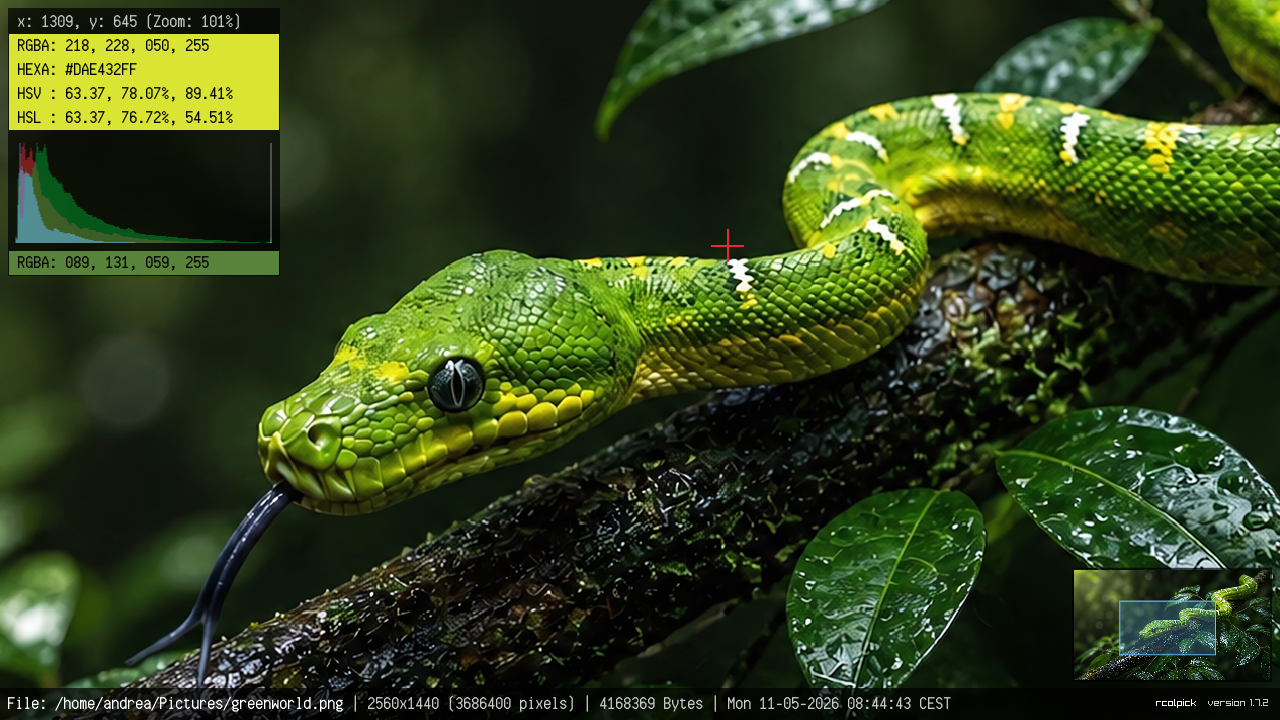
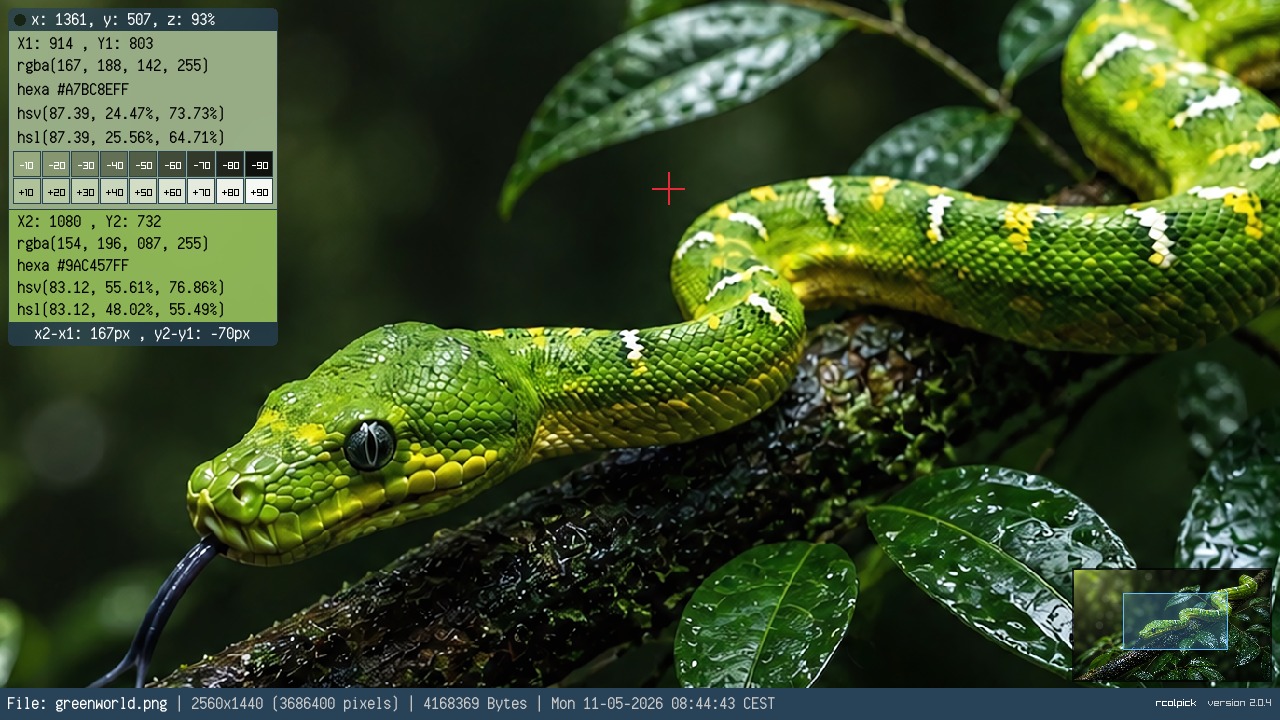
rcolpick info panel review

diff --git a/rcolpick/rcolpick.c b/rcolpick/rcolpick.c
@@ -9,7 +9,7 @@
 
 #define TOOL_NAME               "rColor Picker"
 #define TOOL_SHORT_NAME         "rcolpick"
-#define TOOL_VERSION            "2.0.4"
+#define TOOL_VERSION            "2.1.0"
 
 #include <raylib.h>
 #include <rlgl.h>
@@ -22,7 +22,7 @@
 const int screenWidth = 1280;
 const int screenHeight = 720;
 
-const int fntSize = 18;
+const int fntSize = 14;
 char buffer[64];
 const char *clipboardText = NULL;
 
@@ -63,11 +63,11 @@ const int txtOffset = 32;
 
 Vector2 barPos = {0,screenHeight - txtOffset };
 Rectangle scissorArea = { 0,0,screenWidth,screenHeight - txtOffset };
-Rectangle rectPixel = { 8,8,270,338 };
+Rectangle rectPixel = { 8,8,230,338 };
 Rectangle rectHist = { 8,570,270,110 };
 
 //mimimap variables
-const float maxMapSize = 196.0f; 
+const float maxMapSize = 230.0f; 
 float mapWidth;
 float mapHeight;
 float aspectRatio;
@@ -469,7 +469,7 @@ while (!WindowShouldClose())    // Detect window close button or ESC key
 
                 // se mouse sopra floating panel, sposta floating panel
 	            if (CheckCollisionPointRec(mousePos,rectPixel)) isLeft = !isLeft;
-	            rectPixel.x =(isLeft)?8:1000;
+	            rectPixel.x =(isLeft)?8:1042;
                 // anteprima colore sotto il mouse cursor
                 if (x >= 0 && x < background.width && y >= 0 && y < background.height) previewCol = pixels[y * background.width + x];
 
@@ -590,12 +590,12 @@ while (!WindowShouldClose())    // Detect window close button or ESC key
 
             
             // background of "floating" poanel
-            DrawRectangleRounded(rectPixel,0.048f,36, Fade(bgColor,0.72f));
-
+            DrawRectangleRounded(rectPixel,0.080f,36, Fade(bgColor,0.72f));
+            DrawRectangleRoundedLines(rectPixel,0.080f,36, BLACK);
             // MAIN cursor x,y
             DrawCircle(rectPixel.x + 12,rectPixel.y+12 ,6, previewCol);
             snprintf(buffer, sizeof(buffer), "x: %i, y: %i, z: %02.f%%", x, y,cam.zoom*100);
-            DrawTextEx(txtFont,buffer,(Vector2){rectPixel.x + 24, rectPixel.y + 2},fntSize,0,WHITE);
+            DrawTextEx(txtFont,buffer,(Vector2){rectPixel.x + 24, rectPixel.y + 4},fntSize,0,WHITE);
 
             
             // colore FG text in baase al colore selezionato
@@ -604,31 +604,31 @@ while (!WindowShouldClose())    // Detect window close button or ESC key
 
             // info per left pixel (left mouse click)
             //------------------------------------------------------------------
-            DrawRectangleRec((Rectangle){rectPixel.x + 1, rectPixel.y + 23,268, 178}, Fade(leftCol,0.88f));
-            DrawTextEx(txtFont,TextFormat("X1: %i , Y1: %i", xl, yl),(Vector2){rectPixel.x + 10, rectPixel.y + 26},fntSize,0,LeftTextCol);
+            DrawRectangleRec((Rectangle){rectPixel.x + 1, rectPixel.y + 23,rectPixel.width-2, 118}, Fade(leftCol,0.88f));
+            DrawTextEx(txtFont,TextFormat("X1: %i , Y1: %i", xl, yl),(Vector2){rectPixel.x + 10, rectPixel.y + 28},fntSize,0,LeftTextCol);
             // RGBA            
-            DrawTextEx(txtFont,TextFormat("rgba(%03i, %03i, %03i, %03i)", leftCol.r,leftCol.g,leftCol.b,leftCol.a),(Vector2){ rectPixel.x + 10, rectPixel.y + 48},fntSize,0,LeftTextCol);
+            DrawTextEx(txtFont,TextFormat("rgba(%i, %i, %i, %i)", leftCol.r,leftCol.g,leftCol.b,leftCol.a),(Vector2){ rectPixel.x + 10, rectPixel.y + 50},fntSize,0,LeftTextCol);
             // HEXA 
-            DrawTextEx(txtFont,TextFormat("hexa #%02X%02X%02X%02X", leftCol.r,leftCol.g,leftCol.b,leftCol.a),(Vector2){rectPixel.x + 10, rectPixel.y + 72},fntSize,0,LeftTextCol);
+            DrawTextEx(txtFont,TextFormat("hexa #%02X%02X%02X%02X", leftCol.r,leftCol.g,leftCol.b,leftCol.a),(Vector2){rectPixel.x + 10, rectPixel.y + 74},fntSize,0,LeftTextCol);
            // HSVLighter variations created by adding white to your base color.
-           DrawTextEx(txtFont,TextFormat("hsv(%3.02f, %3.02f%%, %3.02f%%)", hsv.x,hsv.y*100.0f,hsv.z*100.0f),(Vector2){rectPixel.x + 10, rectPixel.y + 96},fntSize,0,LeftTextCol);
+           DrawTextEx(txtFont,TextFormat("hsv(%3.02f, %3.02f%%, %3.02f%%)", hsv.x,hsv.y*100.0f,hsv.z*100.0f),(Vector2){rectPixel.x + 10, rectPixel.y + 98},fntSize,0,LeftTextCol);
            // HSL
-           DrawTextEx(txtFont,TextFormat("hsl(%3.02f, %3.02f%%, %3.02f%%)", res.h*360, res.s*100, res.l*100),(Vector2){rectPixel.x + 10, rectPixel.y + 120},fntSize,0,LeftTextCol);   
+           DrawTextEx(txtFont,TextFormat("hsl(%3.02f, %3.02f%%, %3.02f%%)", res.h*360, res.s*100, res.l*100),(Vector2){rectPixel.x + 10, rectPixel.y + 122},fntSize,0,LeftTextCol);   
             
 
             // info per right pixel (right mouse click)
             //---------------------------------------------------------------------------------------
-            DrawRectangleRec((Rectangle){rectPixel.x +1,rectPixel.y + 202, 268, 112}, Fade(rightCol,0.88f));
+            DrawRectangleRec((Rectangle){rectPixel.x +1,rectPixel.y + 202, rectPixel.width-2, 112}, Fade(rightCol,0.88f));
             // cursor x,y right
-            DrawTextEx(txtFont,TextFormat("X2: %i , Y2: %i", xr, yr), (Vector2){rectPixel.x + 10, rectPixel.y + 204},fntSize,0,RightTextCol);
+            DrawTextEx(txtFont,TextFormat("X2: %i , Y2: %i", xr, yr), (Vector2){rectPixel.x + 10, rectPixel.y + 206},fntSize,0,RightTextCol);
             // RGBA 
-            DrawTextEx(txtFont,TextFormat("rgba(%03i, %03i, %03i, %03i)",rightCol.r, rightCol.g,rightCol.b,rightCol.a),(Vector2){rectPixel.x+10,rectPixel.y + 226},fntSize,0,RightTextCol);
+            DrawTextEx(txtFont,TextFormat("rgba(%i, %i, %i, %i)",rightCol.r, rightCol.g,rightCol.b,rightCol.a),(Vector2){rectPixel.x+10,rectPixel.y + 228},fntSize,0,RightTextCol);
             // HEXA
-           DrawTextEx(txtFont,TextFormat("hexa #%02X%02X%02X%02X", rightCol.r,rightCol.g,rightCol.b,rightCol.a),(Vector2){rectPixel.x + 10, rectPixel.y + 248},fntSize,0,RightTextCol);
+           DrawTextEx(txtFont,TextFormat("hexa #%02X%02X%02X%02X", rightCol.r,rightCol.g,rightCol.b,rightCol.a),(Vector2){rectPixel.x + 10, rectPixel.y + 250},fntSize,0,RightTextCol);
            // HSVLighter variations created by adding white to your base color.
-           DrawTextEx(txtFont,TextFormat("hsv(%3.02f, %3.02f%%, %3.02f%%)", hsv1.x,hsv1.y*100.0f,hsv1.z*100.0f),(Vector2){rectPixel.x + 10, rectPixel.y + 270},fntSize,0,RightTextCol);
+           DrawTextEx(txtFont,TextFormat("hsv(%3.02f, %3.02f%%, %3.02f%%)", hsv1.x,hsv1.y*100.0f,hsv1.z*100.0f),(Vector2){rectPixel.x + 10, rectPixel.y + 272},fntSize,0,RightTextCol);
            // HSL
-           DrawTextEx(txtFont,TextFormat("hsl(%3.02f, %3.02f%%, %3.02f%%)", res1.h*360, res1.s*100, res1.l*100),(Vector2){rectPixel.x + 10, rectPixel.y + 292},fntSize,0,RightTextCol);   
+           DrawTextEx(txtFont,TextFormat("hsl(%3.02f, %3.02f%%, %3.02f%%)", res1.h*360, res1.s*100, res1.l*100),(Vector2){rectPixel.x + 10, rectPixel.y + 294},fntSize,0,RightTextCol);   
 
  
 
@@ -638,23 +638,23 @@ while (!WindowShouldClose())    // Detect window close button or ESC key
 
                 Color backShadesCol =  shadesColor(leftCol,( i*0.1f ));
                 Color backTintedCol = tintedColor(leftCol,( i*0.1f ));
-                Color textShaded = backShadesCol.g > 180 || (backShadesCol.r + backShadesCol.g + backShadesCol.b) > 450 ? BLACK : WHITE;
-                Color textTinded = backTintedCol.g > 180 || (backTintedCol.r + backTintedCol.g + backTintedCol.b) > 450 ? BLACK : WHITE;
+                //Color textShaded = backShadesCol.g > 180 || (backShadesCol.r + backShadesCol.g + backShadesCol.b) > 450 ? BLACK : WHITE;
+                //Color textTinded = backTintedCol.g > 180 || (backTintedCol.r + backTintedCol.g + backTintedCol.b) > 450 ? BLACK : WHITE;
 
-                DrawRectangle(rectPixel.x - 24 + (i * 29) ,rectPixel.height - 187 , 28, 26, bgColor);
-                DrawRectangle(rectPixel.x - 23 + (i * 29) ,rectPixel.height - 186 , 26, 24, backShadesCol);
-                DrawText(TextFormat("-%i",i*10),rectPixel.x-17+(i*29),rectPixel.height-177,10,textShaded);
+                DrawRectangle(rectPixel.x - 21 + (i * 25) ,rectPixel.height - 185 , 22, 24, bgColor);
+                DrawRectangle(rectPixel.x - 20 + (i * 25) ,rectPixel.height - 184 , 20, 22, backShadesCol);
+                //DrawText(TextFormat("-%i",i*10),rectPixel.x-17+(i*25),rectPixel.height-177,10,textShaded);
                 // tinted +10% / +90%
-                DrawRectangle(rectPixel.x - 24 + (i * 29) ,rectPixel.height-160, 28, 26, bgColor);                
-                DrawRectangle(rectPixel.x - 23 + (i * 29) ,rectPixel.height-159, 26, 24, backTintedCol);
-                DrawText(TextFormat("+%i",i*10),rectPixel.x-18+(i*29),rectPixel.height-150,10,textTinded);
+                DrawRectangle(rectPixel.x - 21 + (i * 25) ,rectPixel.height-157, 22, 24, bgColor);                
+                DrawRectangle(rectPixel.x - 20 + (i * 25) ,rectPixel.height-156, 20, 22, backTintedCol);
+                //DrawText(TextFormat("+%i",i*10),rectPixel.x-18+(i*25),rectPixel.height-150,10,textTinded);
             }
 
 
            // distance in pixels from xr to xl and yr to yl
            snprintf(buffer, sizeof(buffer), "x2-x1: %ipx , y2-y1: %ipx", (xr-xl) + 1, (yr-yl) +1 );
            Vector2 secXY = MeasureTextEx(txtFont, buffer, (float)txtFont.baseSize, 0);
-           DrawTextEx(txtFont,buffer,(Vector2){(rectPixel.x + (rectPixel.width-secXY.x) /2), rectPixel.y + 316},fntSize,0,WHITE);  
+           DrawTextEx(txtFont,buffer,(Vector2){(rectPixel.x + (rectPixel.width-secXY.x) /2), rectPixel.y + 318},fntSize,0,WHITE);  
 
 
 
